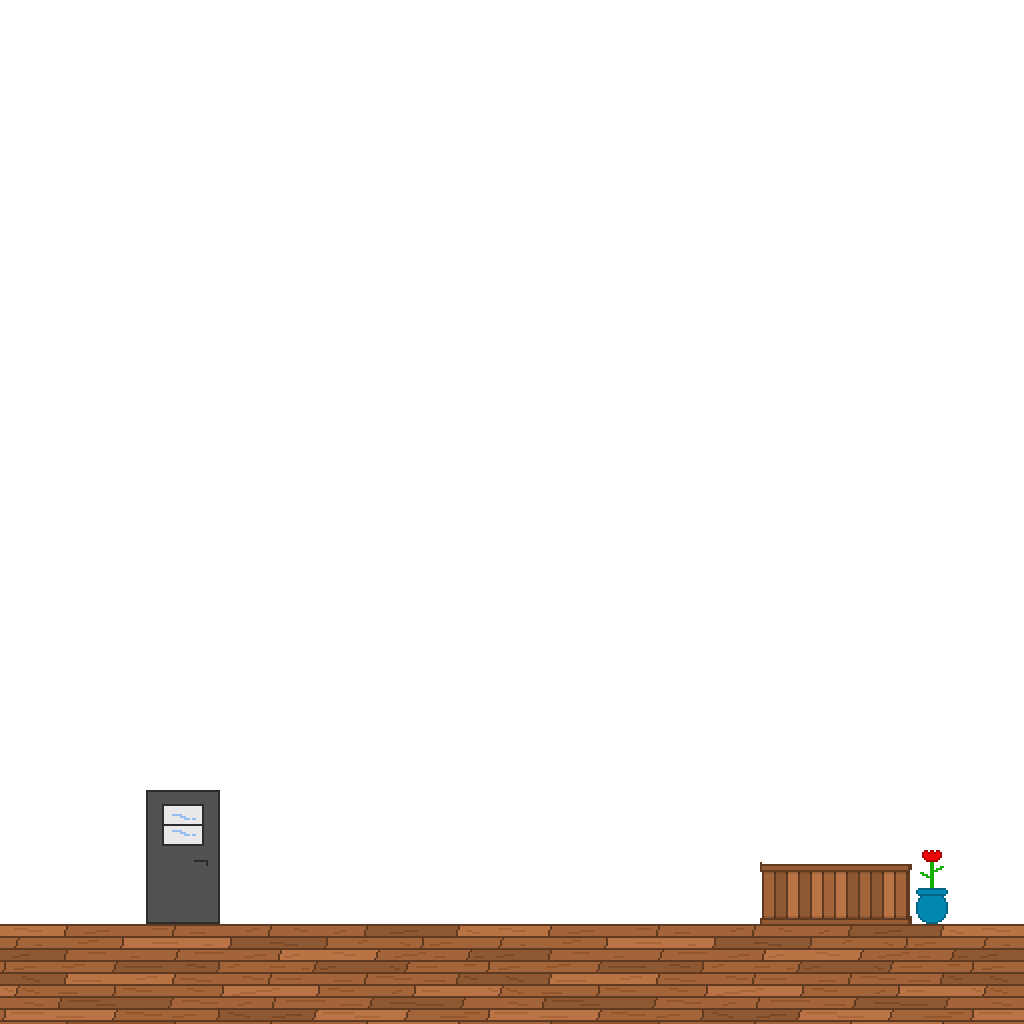
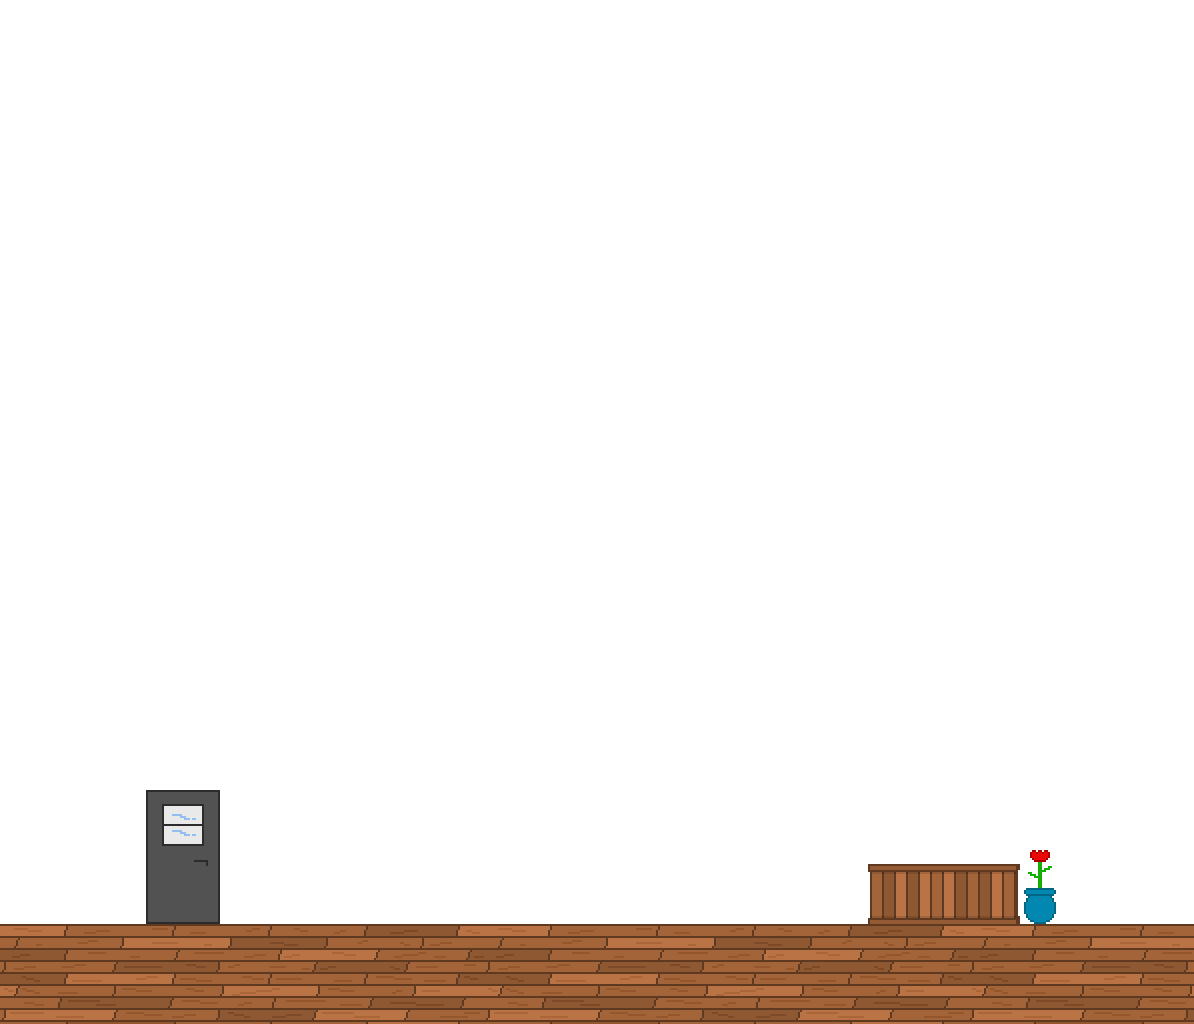
remplacement
intérieur boulangerie taille

diff --git a/src/scripts/app.js b/src/scripts/app.js
@@ -399,7 +399,7 @@ class BakeryScene extends Phaser.Scene {
         this.returnX = data.returnX; // reprend les coordonnées X et Y du player avant d'entrer dans la boulangerie pour pouvoir les utilisé plus tard
         this.returnY = data.returnY;
 
-        this.interiorBakery = this.add.tileSprite(0, -190, 1024, 1024, 'interieur_bakery').setOrigin(0, 0);
+        this.interiorBakery = this.add.tileSprite(0, -190, 1194, 1024, 'interieur_bakery').setOrigin(0, 0);
         player = this.physics.add.sprite(100, 736, "player");
         player.setOrigin(0.5, 1);
         player.setSize(42, 90);
